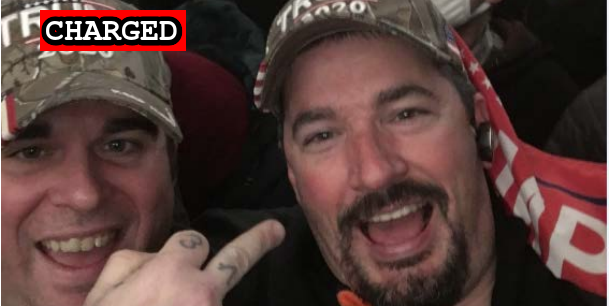
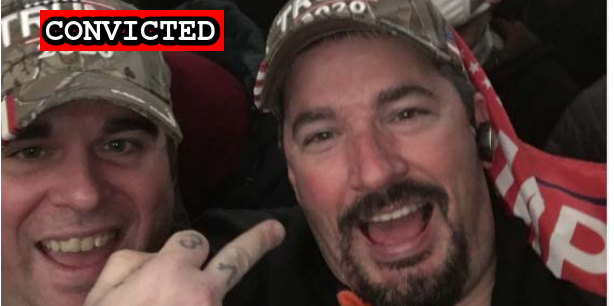
Guilty Plea

Changed region(s): [[0.0928, 0.0294, 0.3713, 0.1765]]

diff --git a/docs/_suspects/robert-bauer.md b/docs/_suspects/robert-bauer.md
@@ -26,14 +26,16 @@ author: seditiontrack
 layout: suspect
 published: true
 charges:
- - name: Unlawful entry on restricted building or grounds
-   code: 18 USC 1752
-   link: https://www.law.cornell.edu/uscode/text/18/1752
- - name: Violent entry or disorderly conduct on Capitol grounds
-   code: 40 USC 5104
-   link: https://www.law.cornell.edu/uscode/text/40/5104
+  - name: Unlawful entry on restricted building or grounds
+    code: 18 USC 1752
+    link: https://www.law.cornell.edu/uscode/text/18/1752
+  - name: Violent entry or disorderly conduct on Capitol grounds
+    code: 40 USC 5104
+    link: https://www.law.cornell.edu/uscode/text/40/5104
 ---
+
 - [News Report](https://www.whas11.com/article/news/crime/kentucky-capitol-riot-arrests-bauer/417-51b5098f-25b0-41f7-898b-37616e64dc5d)
 - [Complaint](https://assets.documentcloud.org/documents/20456227/1-14-21-us-v-robert-bauer-complaint-statement.pdf)
 - [Statement of Facts](https://www.justice.gov/opa/page/file/1355721/download)
 - [Information](https://www.justice.gov/usao-dc/case-multi-defendant/file/1371586/download)
+- [Plea Agreement](https://s3.documentcloud.org/documents/20974837/6-28-21-robert-bauer-plea-agreement.pdf)

diff --git a/docs/_suspects/edward-hemenway.md b/docs/_suspects/edward-hemenway.md
@@ -3,10 +3,11 @@ name: Edward Hemenway
 lastName: Hemenway
 aka:
 residence: Virginia
-status: Charged
+status: Convicted
 date: 2021-01-15
 charged: 2021-01-15
 indicted:
+convicted: 2021-06-28
 age:
 occupation:
 affiliations:
